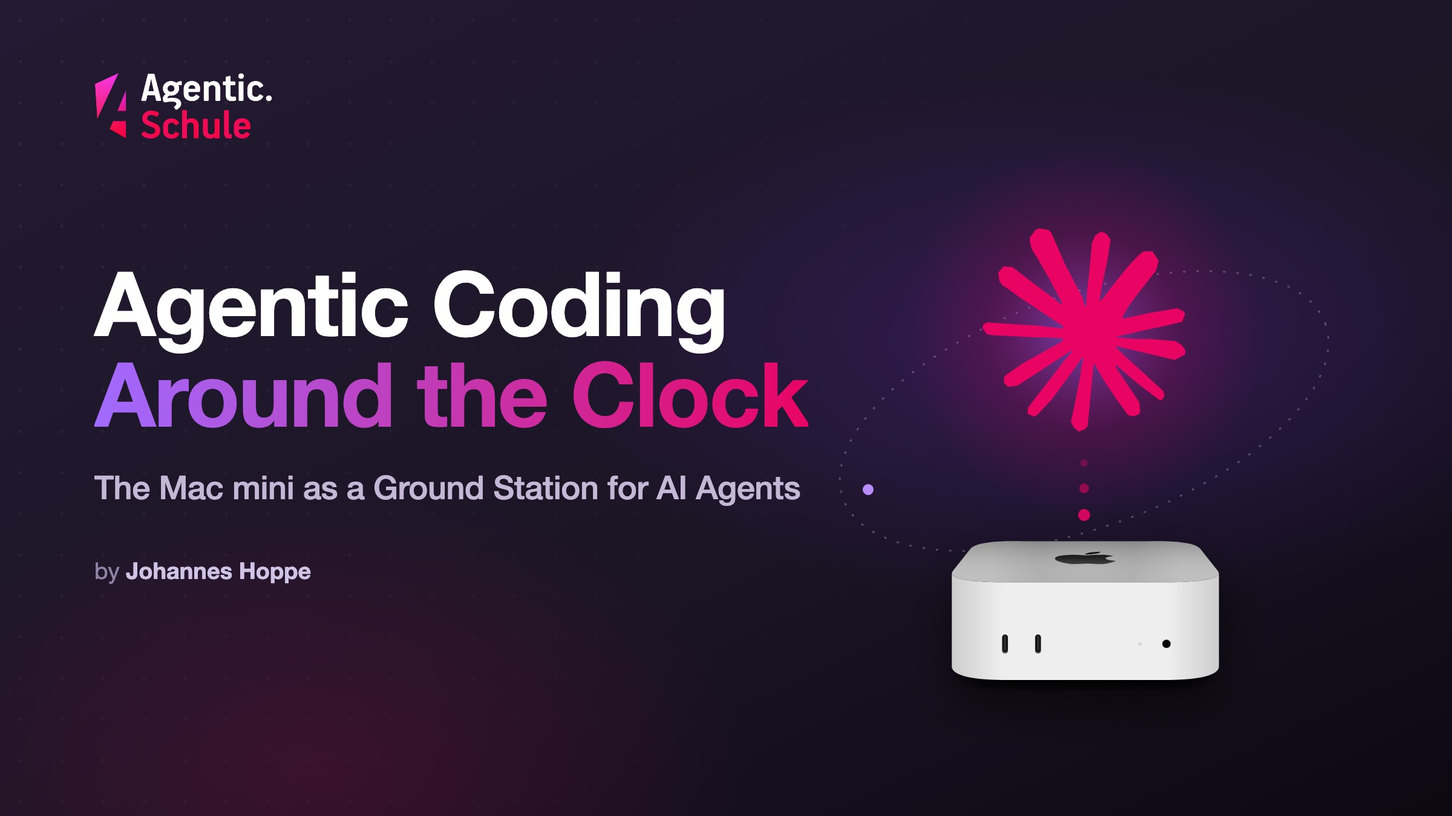
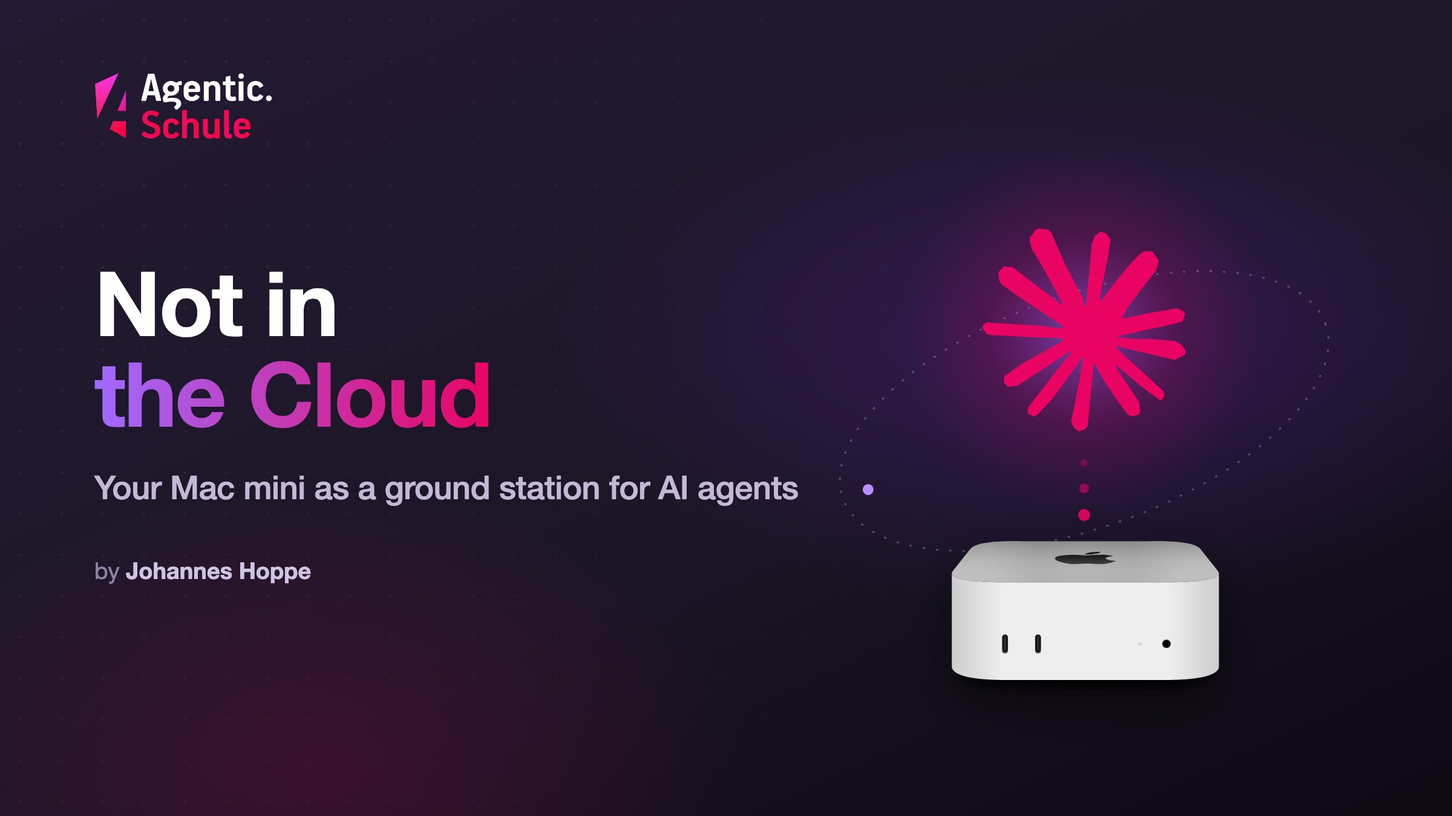
Mac-mini-Artikel: Umbau auf den Cloud-Souveränitäts-Spin (Tag-2-Video), DE+EN
Neue These/Titel „Deine AI-Agenten gehören NICHT in die Cloud": Die Chats sind
dein Kapital und gehören auf die eigene Platte.

- Neuer Abschnitt „Warum nicht einfach die Cloud?" nach „Das Problem": ChatGPT
  dots (eigener Cloud-Computer, Rollout Pro/Business Premium/Enterprise in
  eligible markets, GPT-6 Astra) und Claude-Cloud-Sessions (4 vCPUs/16 GB RAM,
  „use Remote Control on your own hardware", kein separater Compute-Charge,
  geteiltes Limit, Cloning via GitHub, Teleport). Preis gehedgt als Meinung;
  Geschäftsinteresse (neue Einnahmequelle) als Lesart. Codespaces/Devin/Jules
  hierher gezogen. Zeitgebundene Fakten „Stand Oktober 2026". Alle Fakten selbst
  an den Primärquellen verifiziert.
- Neuer Abschnitt „Deine Chats sind dein Kapital": ~/.claude/projects/, memory/,
  cleanupPeriodDays 365, „noch in einem Jahr nachschauen", Querverweis
  Account-Switch.
- Sandbox als eigener Abschnitt aufgewertet. „Laptop zuklappen" bleibt als
  zweites Argument. Fazit zugespitzt: „Deine Maschine, deine Schätze."
- Banner neu (h1 „Nicht in die Cloud"), lastModified 2026-10-02. EN strukturgleich.

Changed region(s): [[0.0625, 0.3111, 0.5625, 0.5289], [0.0625, 0.56, 0.5625, 0.6222]]

diff --git a/blog/2026-09-agentic-coding-mac-mini-DE/header.src.html b/blog/2026-09-agentic-coding-mac-mini-DE/header.src.html
@@ -44,8 +44,8 @@
   <img class="brand" src="logo-agentic-schule.png" alt="agentic.schule">
   <div class="wrap">
     <div class="left">
-      <h1>Agentic&nbsp;Coding<br><span class="accent">rund um die Uhr</span></h1>
-      <div class="sub">Der Mac mini als Bodenstation für AI-Agenten</div>
+      <h1>Nicht in<br><span class="accent">die Cloud</span></h1>
+      <div class="sub">Dein Mac mini als Bodenstation für AI-Agenten</div>
       <div class="by">von <b>Johannes Hoppe</b></div>
     </div>
   </div>

diff --git a/blog/2026-09-agentic-coding-mac-mini-EN/header.src.html b/blog/2026-09-agentic-coding-mac-mini-EN/header.src.html
@@ -44,8 +44,8 @@
   <img class="brand" src="logo-agentic-schule.png" alt="agentic.schule">
   <div class="wrap">
     <div class="left">
-      <h1>Agentic&nbsp;Coding<br><span class="accent">Around the Clock</span></h1>
-      <div class="sub">The Mac mini as a Ground Station for AI Agents</div>
+      <h1>Not in<br><span class="accent">the Cloud</span></h1>
+      <div class="sub">Your Mac mini as a ground station for AI agents</div>
       <div class="by">by <b>Johannes Hoppe</b></div>
     </div>
   </div>

diff --git a/blog/2026-09-agentic-coding-mac-mini-DE/README.md b/blog/2026-09-agentic-coding-mac-mini-DE/README.md
@@ -1,31 +1,34 @@
 ---
-title: 'Agentic Coding rund um die Uhr: Der Mac mini als Bodenstation'
+title: 'Deine AI-Agenten gehören NICHT in die Cloud: der Mac mini als Bodenstation'
 author: Johannes Hoppe
 mail: johannes.hoppe@haushoppe-its.de
 bio: '<a href="https://agentic.schule"><img src="/img/logo-agentic-schule.png" alt="agentic.schule Logo" style="float: right; margin-left: 30px; margin-top: -10px; margin-right: 30px; max-width: 220px;"></a>Johannes Hoppe ist Trainer und Berater für moderne Web-Entwicklung. In den Workshops von <a href="https://angular.schule" style="text-decoration: underline;"><b>angular.schule</b></a> und <a href="https://agentic.schule" style="text-decoration: underline;"><b>agentic.schule</b></a> geht es praxisnah um Angular – und zunehmend um agentische Entwicklung mit KI-Agenten wie Claude Code.'
 bioHeading: Über den Autor
 published: 2026-09-24
+lastModified: 2026-10-02
 keywords:
   - Agentic Coding
   - AI Agent
   - KI-Agent
   - Claude Code
   - Mac mini
+  - Cloud
+  - ChatGPT dots
+  - Datensouveränität
   - Always-on
   - tmux
   - mosh
   - Syncthing
   - colima
-  - nginx
   - Remote Development
   - Homelab
 language: de
 header: header.jpg
 ---
 
-Agentic Coding funktioniert anders als ein Chatfenster: Man gibt die Richtung vor, und der Agent liest Code, schreibt Dateien, führt Tests aus und plant selbstständig die nächsten Schritte. Solche Läufe dauern: Minuten, manchmal Stunden. Und genau da beißt sich das mit einem Laptop, den man zuklappt, ins Café trägt oder im Zug in den Ruhemodus schickt.
+ChatGPT hat jetzt Dots, Claude hat Cloud-Sessions: KI-Agenten, die in der Cloud laufen, während du dich um nichts kümmern musst. Bequem, keine Frage. Und trotzdem mag ich diese Angebote nicht.
 
-**Ich habe deshalb einen Mac mini zur „Bodenstation" umgebaut: eine immer laufende Maschine, auf der meine Agenten weiterarbeiten, während ich vom MacBook, aus dem Browser oder sogar vom Handy aus zusehe und eingreife.**
+**Die Gespräche mit deinem Agenten sind dein Kapital, und das gehört auf deine eigene Platte, nicht in eine fremde Cloud. Meine Antwort ist ein Mac mini als immer laufende „Bodenstation": eine Maschine, die dir gehört, eine dedizierte Sandbox, erreichbar von überall. Deine Agenten arbeiten weiter, während du vom MacBook, aus dem Browser oder sogar vom Handy aus zusiehst und eingreifst.**
 
 Die Kiste stand zunächst aus einem ganz anderen Grund im Regal: ein aktueller Mac mini M4 mit 32 GB, den ich mir eigentlich für den **Clawdbot**-Hype (heute *[OpenClaw](https://openclaw.ai)*) geholt hatte, den eigenen Agenten per **[Signal](https://signal.org)** vom Handy steuern, das hatte was. Cool war es genau so lange, wie diese Fernsteuerung der eigentliche Reiz war. Seit [Claude Code](https://claude.com/claude-code) das mit **`/remote-control`** von Haus aus kann, hat der Clawdbot für mich viel von seinem Charme verloren, und der mini langweilte sich ohnehin ein wenig (dazu vielleicht ein andermal mehr). Also bekam er eine neue, dauerhafte Aufgabe.
 
@@ -39,9 +42,9 @@ Dieser Artikel zeigt die Idee, die Bausteine und, in How-to-Kästen, wie man sie
 
 ## Das Problem: Agenten wollen laufen, ich will weg
 
-Ein typischer Ablauf beim Agentic Coding: Ich beschreibe ein Refactoring, der Agent legt los, arbeitet eine Aufgabenliste ab, lässt Tests laufen, korrigiert sich selbst. Das ist großartig, solange die Maschine an bleibt und die Session lebt.
+Agentic Coding funktioniert anders als ein Chatfenster: Man gibt die Richtung vor, und der Agent liest Code, schreibt Dateien, führt Tests aus und plant selbstständig die nächsten Schritte. Solche Läufe dauern: Minuten, manchmal Stunden. Und genau da beißt sich das mit einem Laptop, den man zuklappt, ins Café trägt oder im Zug in den Ruhemodus schickt.
 
-Auf dem Laptop passiert aber Folgendes:
+Auf dem Laptop passiert Folgendes:
 
 - Ich klappe ihn zu → der Prozess schläft ein, der Agent friert mitten im Lauf ein.
 - Ich will abends vom Sofa aus nur *kurz* nachsehen, wie weit er ist, und müsste den Laptop wieder hochfahren.
@@ -52,9 +55,31 @@ Dazu kommt ein Muster, das ich an mir selbst beobachte: Meine besten Ideen habe 
 
 Die Lösung ist konzeptionell simpel: **Der Agent läuft nicht auf dem Gerät in meiner Nähe, sondern auf einer dedizierten Maschine, die nie ausgeht und immer an ist.** Das Gerät in meiner Hand ist nur noch ein Fenster darauf.
 
-Das hat Claude Code (und andere Tools) im Prinzip schon gut gelöst: Remote Control per Handy. Aber mir reicht das nicht.
+## Warum nicht einfach die Cloud?
 
-Welches Gerät dieses Fenster ist, wird damit zur Nebensache: das große 16-Zoll-MacBook Pro am Schreibtisch, das kleine MacBook für die Herrenhandtasche (auf Konferenzen einen Riesen-Rechner herumschleppen ist uncool) oder das Handy. Ich will flexibel bleiben, und die Bodenstation bleibt dabei immer dieselbe.
+An dieser Stelle liegt der Einwand nahe: Genau dafür gibt es doch längst fertige Cloud-Angebote. Dein Agent läuft auf fremder Infrastruktur, immer an, und du musst nichts administrieren. Prinzipiell eine super Sache. Nur: Diese Angebote gefallen mir nicht, und das hat handfeste Gründe. Die folgenden Zahlen und Zitate sind Stand Oktober 2026.
+
+**ChatGPT Dots** (OpenAI schreibt sie klein). Jeder Dot ist laut OpenAI „frontier intelligence", „Powered by GPT‑6 Astra", und hat „their own cloud computer". OpenAI rollt sie „across Pro, Business Premium, and Enterprise plans in eligible markets" aus. Der Agent und seine Daten sitzen damit auf OpenAIs Rechnern, nicht auf meinen. Und meiner Einschätzung nach zahlt man für mehr als den ersten Dot zusätzlich drauf. (Ob Pro im EWR und in der Schweiz überhaupt dabei ist, war zum Start uneinheitlich; verlässlich stand das nicht auf OpenAIs eigener Seite, nur in Medienberichten.)
+
+**Claude-Code-Cloud-Sessions.** Die laufen in einer von Anthropic verwalteten VM mit, laut Doku, „approximate resource ceilings": „4 vCPUs" und „16 GB of RAM". Das ist mickrig. Und die Doku sagt selbst, was dann zu tun ist: „The VM may stop tasks that need significantly more memory … For workloads beyond these limits, use Remote Control to run Claude Code on your own hardware." Wer also ernsthaft Ressourcen braucht, wird von der Doku ohnehin auf eigene Hardware geschickt. Fair bleibt: „There is no separate compute charge for the cloud VM", und die Cloud-Sessions teilen sich das Nutzungslimit mit deiner übrigen Claude-Nutzung. Zum Klonen von Code braucht es GitHub. Und ja, man kann eine Cloud-Session per Teleport ins eigene Terminal holen, losgelaufen ist sie aber zuerst in der Cloud.
+
+Kommerziell gibt es dasselbe als gemietete Dev-Umgebung ([GitHub Codespaces](https://github.com/features/codespaces), [Coder](https://coder.com), [Google Cloud Workstations](https://cloud.google.com/workstations)) oder als gehosteten Agenten-Dienst ([Devin](https://devin.ai), [Google Jules](https://jules.google)), abgerechnet laufend pro Compute-Stunde oder Seat.
+
+Nüchtern betrachtet steckt dahinter auch ein handfestes Geschäftsinteresse. Die monatlichen Subscriptions lassen sich kaum weiter anheben, ohne dass die Kunden jede Preiserhöhung hassen. Ein zusätzlicher Cloud-Dienst, abgerechnet pro Nutzung oder pro Seat, ist aus Anbietersicht eine elegante neue Einnahmequelle. Das ist meine Lesart, aber sie erklärt den Drang in die Cloud ziemlich gut.
+
+So unterschiedlich diese Angebote sind, sie teilen den einen Haken, der mich am meisten stört: Deine Gespräche mit dem Agenten liegen dann irgendwo in einer fremden Cloud. Und genau die sind mir zu wertvoll dafür.
+
+## Deine Chats sind dein Kapital
+
+Die Frage, die mich am meisten beschäftigt: Wo liegen die Chats? Das Wissen, das ich mit dem Agenten angehäuft habe, die Entscheidungen, die Begründungen, die Sackgassen, das ist mein Kapital. Ich will es zwischen mehreren Maschinen synchronisieren, ich will es sichern können, und ich will noch in einem Jahr nachschauen können, was ich damals besprochen habe. Nichts davon geht gut, wenn es in einer fremden Cloud liegt.
+
+Claude Code legt seine Gesprächsprotokolle lokal unter `~/.claude/projects/` ab, eine `.jsonl`-Datei pro Session. Im selben Projektordner liegt außerdem der Unterordner `memory/`, in dem sich der Agent dauerhaft Notizen macht. Genau dieser Fundus soll mir erhalten bleiben, auf meiner eigenen, verschlüsselten Platte.
+
+> **⚠ Unbedingt anpassen: `cleanupPeriodDays`.** Claude Code räumt die Gesprächsprotokolle unter `~/.claude/projects/` standardmäßig nach 30 Tagen weg. Wer sie als Nachschlage-Fundus behalten will, setzt in `~/.claude/settings.json` den Wert `cleanupPeriodDays` deutlich höher, bei mir auf 365. Sonst löscht ein aufgeräumter Rechner die Historie.
+
+Auf der Bodenstation liegen diese Dateien auf meiner Platte und werden auf mein MacBook gespiegelt (wie genau, zeige ich im Abschnitt [Alles doppelt](#alles-doppelt-immer-synchron)). Damit kann ich eine Session, die ich auf dem mini begonnen habe, auf dem MacBook fortsetzen: Kontext, Verlauf, alles da.
+
+Für mich ist deshalb jedes reine Cloud-Angebot ein Showstopper. Diese Haltung zieht sich durch mein ganzes Setup; auch beim [Auto-Account-Switch](https://agentic.schule/blog/2026-09-agentic-coding-auto-account-switch) ging es mir genau darum, die Kontrolle über die eigenen Daten zu behalten.
 
 ## Die Architektur: Bodenstation und mobiler Spiegel
 
@@ -73,6 +98,12 @@ Streng genommen kommt eine dritte Rolle dazu: **Geräte, die nur als Terminal ar
 Der mini steht ohne Monitor und ohne Tastatur bei meiner übrigen Haustechnik, neben NAS, Fritzbox, dem dicken Switch und dem ganzen Kabelsalat, den man sonst so im Netz hängen hat. Erreichbar ist er nur übers Netzwerk. Das klingt nach Einschränkung, ist aber der halbe Trick: Was *headless* läuft (ohne Bildschirm und ohne sichtbare Fenster), läuft auch, wenn niemand eingeloggt ist.
 
 Warum ausgerechnet ein Mac mini? Für diese Rolle ist er fast perfekt: Apple Silicon liefert richtig viel Leistung fürs Geld, er ist **winzig** und passt in jede Ecke, läuft **absolut leise** (den Lüfter höre ich im Alltag nie) und ist so **stromsparend**, dass der Dauerbetrieb kaum auf der Rechnung auffällt. Im Leerlauf zieht er nur eine Handvoll Watt. Genau das, was man für eine Maschine will, die nie ausgeht.
+
+## Eine dedizierte Sandbox
+
+Neben den Chats ist das der zweite Grund für eine eigene Maschine. Der mini ist nicht mein Alltags-Laptop, auf dem ich alles Mögliche mache, sondern eine Maschine mit genau einem Zweck: dem Programmieren. Auf der Bodenstation läuft nur, was für die Arbeit nötig ist. Sonst bin ich dort nirgends eingeloggt, nicht einmal mein üblicher Passwort-Manager ist installiert.
+
+Damit ist der ganze Mac mini im Grunde eine **Sandbox**: Was ein Agent dort anrichten könnte, bleibt eng begrenzt. Für Agenten, die zunehmend selbstständig Befehle ausführen, ist das ein beruhigender Gedanke, und er kostet mich nichts extra, weil die Maschine ohnehin nur diese eine Aufgabe hat.
 
 ## Verbindungsabbrüche überstehen
 
@@ -125,15 +156,13 @@ Diesen direkten Terminal-Weg nutze ich aber selten. Meist arbeite ich auf dem Ha
 
 ## Alles doppelt: immer synchron
 
-Bis hierher könnte ich von überall auf den mini *zugreifen*. Der eigentliche Clou ist aber, dass mein großes MacBook Pro kein bloßes Terminal ist, sondern ein **echter Spiegel**: Es hat dieselben Dateien und kann jederzeit die Arbeit des mini übernehmen, auch offline. Warum mir das so wichtig ist? Bei einem kompletten Stromausfall will ich nicht mit heruntergelassenen Hosen dastehen, großer Mac und mini sind ja immer synchron. Ganz nebenbei wirkt dieser Spiegel wie ein permanentes, sekundenscharfes Backup. Geiler Scheiß, mit einem wichtigen Aber, zu dem ich unten komme.
+Bis hierher könnte ich von überall auf den mini *zugreifen*. Der eigentliche Clou ist aber, dass mein großes MacBook Pro kein bloßes Terminal ist, sondern ein **echter Spiegel**: Es hat dieselben Dateien und kann jederzeit die Arbeit des mini übernehmen, auch offline. Warum mir das so wichtig ist? Bei einem kompletten Stromausfall will ich nicht mit heruntergelassenen Hosen dastehen, großer Mac und mini sind ja immer synchron. Ganz nebenbei wirkt dieser Spiegel wie ein permanentes, sekundenscharfes Backup. Geiler Scheiss, mit einem wichtigen Aber, zu dem ich unten komme.
 
 Dafür sorgt **[Syncthing](https://syncthing.net)**, ein Peer-to-Peer-Sync ohne Cloud dazwischen. Es spiegelt bidirektional:
 
 - `~/Work`: alle Projekte und Repos
-- `~/.claude`: **und hier wird es spannend: die Agenten-Sessions selbst.** Claude Code legt seine Gesprächsprotokolle unter `~/.claude/projects/` ab. Werden die mitgesynct, kann ich eine Session, die ich auf dem mini begonnen habe, auf dem MacBook fortsetzen: Kontext, Verlauf, alles da.
+- `~/.claude`: die Agenten-Sessions und das `memory/`-Verzeichnis aus dem Abschnitt [Deine Chats sind dein Kapital](#deine-chats-sind-dein-kapital). Werden sie mitgesynct, kann ich eine Session vom mini auf dem MacBook fortsetzen: Kontext, Verlauf, alles da.
 - `~/Shots`: Screenshots (praktisch, gleich mehr dazu)
-
-> **⚠ Unbedingt anpassen: `cleanupPeriodDays`.** Claude Code räumt die Gesprächsprotokolle unter `~/.claude/projects/` standardmäßig nach 30 Tagen weg. Wer sie, wie hier, syncen und als Nachschlage-Fundus behalten will, setzt in `~/.claude/settings.json` den Wert `cleanupPeriodDays` deutlich höher, bei mir auf 365. Sonst löscht ein aufgeräumter Rechner die Historie, und der Sync trägt das Löschen brav auf den anderen.
 
 Gesynct wird **Quellcode, keine Artefakte.** `node_modules`, `dist`, `build`, `target` und Caches stehen in `.stignore` und werden pro Maschine neu gebaut (`npm ci`, `cargo build`). Kompilierte Binaries über Rechner zu kopieren bricht sowieso irgendwann am Library-Linking, lieber sauber neu bauen.
 
@@ -255,21 +284,19 @@ Ein Mac mini im Regal, ein bisschen Unix-Handwerk, und plötzlich hat man eine p
 
 Ein Nebeneffekt, den ich unterschätzt hatte: Ein **dedizierter Rechner ohne GUI und ohne sonstige Prozesse** hat spürbar mehr nutzbare Power. Auf meinem normalen Arbeitsrechner kratzte der Arbeitsspeicher bei gleicher RAM-Bestückung ständig am Limit. Swapping ohne Ende. Super nervig, wenn man überlegen muss, welchen Prozess man jetzt abschießt; den Agenten will man ja ganz sicher nicht unterbrechen. Auf dem mini ist dieses Problem einfach weg.
 
-Und die Sicherheit ist fast nebenbei gestiegen: Auf der Bodenstation läuft nur, was für die Arbeit nötig ist, sonst bin ich dort nirgends eingeloggt, nicht einmal mein üblicher Passwort-Manager ist installiert. Damit ist der ganze Mac mini im Grunde eine **Sandbox**: Was ein Agent dort anrichten könnte, bleibt eng begrenzt.
-
 Die Grenzen des Setups:
 
 - **Es braucht Pflege.** Headless-Betrieb, FileVault-Remote-Unlock, Autostart-Dienste, das ist einmal Einrichtungsaufwand und gelegentlich Debugging.
 - **Sicherheit ist Pflicht, kein Bonus.** Zugriff ausschließlich übers VPN, Key-Auth, FileVault an. Ein always-on Rechner ist nur so vertrauenswürdig wie sein Zugang.
 - **Reboots kosten laufende Prozesse.** tmux rettet das Layout, nicht den Zustand mitten im Lauf. Für lange Läufe plane ich Neustarts entsprechend.
 
-Und wie machen es eigentlich alle anderen? Meist gar nicht so, sie lassen ihren Agenten (**Claude Code**, [Cursor](https://cursor.com), [GitHub Copilot](https://github.com/features/copilot), [Antigravity](https://antigravity.google)) einfach lokal auf dem Laptop laufen. Kein Keller, kein Server. Für die meisten ist das genau richtig.
+Und wie machen es eigentlich alle anderen? Die meisten lassen ihren Agenten (**Claude Code**, [Cursor](https://cursor.com), [GitHub Copilot](https://github.com/features/copilot), [Antigravity](https://antigravity.google)) einfach lokal auf dem Laptop laufen. Kein Keller, kein Server. Für die meisten ist das genau richtig. Wer den Schritt in die Cloud geht, gibt dafür die Kontrolle über seine Daten und seine Chats aus der Hand, und genau das will ich nicht.
 
-Mein Setup zielt auf den Sonderfall: **immer an, von überall**. Kommerziell bekommt man das als gemietete Cloud-Dev-Umgebung ([GitHub Codespaces](https://github.com/features/codespaces), [Coder](https://coder.com), [Google Cloud Workstations](https://cloud.google.com/workstations)) oder als gehosteten Agenten-Dienst ([Devin](https://devin.ai), [Google Jules](https://jules.google)), abgerechnet laufend pro Compute-Stunde oder Seat. Bei mir sind es allein die **Max-Subscription von Claude** und Hardware, die ich ohnehin hatte. Und weil der Agent jederzeit erreichbar ist, reize ich deren großzügige Limits inzwischen wirklich gnadenlos aus, das gelingt kaum so gut, wenn man an einen physischen Ort gebunden ist.
+Mein Setup zielt auf den Sonderfall: **immer an, von überall, und trotzdem komplett bei mir.** Bei mir sind es allein die **Max-Subscription von Claude** und Hardware, die ich ohnehin hatte. Und weil der Agent jederzeit erreichbar ist, reize ich deren großzügige Limits inzwischen wirklich gnadenlos aus, das gelingt kaum so gut, wenn man an einen physischen Ort gebunden ist.
 
-Für mich überwiegt der Gewinn deutlich: Agenten, die weiterarbeiten, während ich lebe, mich bewege, das Gerät wechsle. Die Bodenstation steht, die Rakete dockt an und ab. *Ground Control to Major Tom*, und der Bodenkontakt reißt nie ab.
+Für mich überwiegt der Gewinn deutlich: Agenten, die weiterarbeiten, während ich lebe und mich bewege, die Chats auf meiner eigenen Platte, eine Maschine, die mir gehört. **Deine Maschine, deine Schätze. Du hast die Kontrolle und nicht die Cloud.**
 
-Übrigens: Beim Schreiben dieses Artikels hatte ich den Song permanent im Ohr. Bitte sehr, hier ist dein neuer Ohrwurm:
+Übrigens: Beim Schreiben dieses Artikels hatte ich den Song permanent im Ohr. Bitte sehr, hier ist dein neuer Ohrwurm, *Ground Control to Major Tom*:
 
 <iframe src="https://www.youtube.com/embed/iYYRH4apXDo" title="David Bowie – Space Oddity (Official Video)" style="width: 100%; aspect-ratio: 16 / 9; border: 0; border-radius: 8px;" allowfullscreen loading="lazy"></iframe>
 

diff --git a/blog/2026-09-agentic-coding-mac-mini-EN/README.md b/blog/2026-09-agentic-coding-mac-mini-EN/README.md
@@ -1,30 +1,33 @@
 ---
-title: 'Agentic Coding Around the Clock: The Mac mini as a Ground Station'
+title: 'Your AI Agents Do NOT Belong in the Cloud: the Mac mini as a Ground Station'
 author: Johannes Hoppe
 mail: johannes.hoppe@haushoppe-its.de
 bio: '<a href="https://agentic.schule"><img src="/img/logo-agentic-schule.png" alt="agentic.schule logo" style="float: right; margin-left: 30px; margin-top: -10px; margin-right: 30px; max-width: 220px;"></a>Johannes Hoppe is a trainer and consultant for modern web development. The workshops at <a href="https://angular.schule" style="text-decoration: underline;"><b>angular.schule</b></a> and <a href="https://agentic.schule" style="text-decoration: underline;"><b>agentic.schule</b></a> focus on Angular in practice – and increasingly on agentic development with AI agents like Claude Code.'
 bioHeading: About the author
 published: 2026-09-24
+lastModified: 2026-10-02
 keywords:
   - Agentic Coding
   - AI Agent
   - Claude Code
   - Mac mini
+  - Cloud
+  - ChatGPT dots
+  - Data sovereignty
   - Always-on
   - tmux
   - mosh
   - Syncthing
   - colima
-  - nginx
   - Remote Development
   - Homelab
 language: en
 header: header.jpg
 ---
 
-Agentic Coding works differently from a chat window: you set the direction, and the agent reads code, writes files, runs tests, and plans the next steps on its own. Such runs take time: minutes, sometimes hours. And that's exactly where things clash with a laptop that you fold shut, carry into a café, or send to sleep on the train.
+ChatGPT now has dots, Claude has cloud sessions: AI agents that run in the cloud while you don't have to worry about a thing. Convenient, no question. And yet I don't like these offerings.
 
-**That's why I turned a Mac mini into a "ground station": an always-running machine on which my agents keep working, while I watch and step in from the MacBook, the browser, or even my phone.**
+**The conversations with your agent are your capital, and they belong on your own disk, not in someone else's cloud. My answer is a Mac mini as an always-running "ground station": a machine that belongs to you, a dedicated sandbox, reachable from anywhere. Your agents keep working while you watch and step in from the MacBook, the browser, or even your phone.**
 
 The box was initially sitting on the shelf for a completely different reason: a current Mac mini M4 with 32 GB that I had actually bought to join the **Clawdbot** hype (today *[OpenClaw](https://openclaw.ai)*), controlling your own agent from your phone via **[Signal](https://signal.org)**, that had something to it. It was cool exactly as long as that remote control was the main appeal. Since [Claude Code](https://claude.com/claude-code) can do the same out of the box with **`/remote-control`**, the Clawdbot has lost much of its charm for me, and the mini was getting a bit bored anyway (maybe more on that another time). So it got a new, permanent job.
 
@@ -38,9 +41,9 @@ This article shows the idea, the building blocks, and, in how-to boxes, how to b
 
 ## The Problem: Agents Want to Run, I Want to Leave
 
-A typical flow in agentic coding: I describe a refactoring, the agent gets going, works through a task list, runs tests, corrects itself. That's great, as long as the machine stays on and the session lives.
+Agentic coding works differently from a chat window: you set the direction, and the agent reads code, writes files, runs tests, and plans the next steps on its own. Such runs take time: minutes, sometimes hours. And that's exactly where things clash with a laptop that you fold shut, carry into a café, or send to sleep on the train.
 
-On the laptop, though, this is what happens:
+On the laptop, this is what happens:
 
 - I fold it shut → the process goes to sleep, the agent freezes mid-run.
 - In the evening I just want to *quickly* check from the couch how far it's gotten, and would have to boot the laptop back up.
@@ -51,9 +54,31 @@ On top of that, there's a pattern I notice in myself: my best ideas rarely come 
 
 The solution is conceptually simple: **The agent doesn't run on the device near me, but on a dedicated machine that never goes off and is always on.** The device in my hand is just a window onto it.
 
-Claude Code (and other tools) have basically already solved this: remote control from the phone. But that's not enough for me.
+## Why Not Just the Cloud?
 
-Which device that window is becomes a side note: the big 16-inch MacBook Pro at the desk, the small MacBook for the man-purse (lugging a giant machine around at conferences is uncool), or the phone. I want to stay flexible, and the ground station always stays the same.
+At this point the obvious objection is: there are ready-made cloud offerings for exactly this. Your agent runs on someone else's infrastructure, always on, and you administer nothing. In principle a great thing. Only: these offerings don't appeal to me, and that has solid reasons. The figures and quotes below are as of October 2026.
+
+**ChatGPT dots** (OpenAI writes them lowercase). Each dot is, per OpenAI, "frontier intelligence", "Powered by GPT‑6 Astra", and has "their own cloud computer". OpenAI is rolling them out "across Pro, Business Premium, and Enterprise plans in eligible markets". So the agent and its data sit on OpenAI's machines, not mine. And in my estimation you pay extra for more than the first dot. (Whether Pro is even included in the EEA and Switzerland was inconsistent at launch; reliably that was not on OpenAI's own page, only in media reports.)
+
+**Claude Code cloud sessions.** These run in a VM managed by Anthropic with, per the docs, "approximate resource ceilings": "4 vCPUs" and "16 GB of RAM". That's puny. And the docs themselves say what to do then: "The VM may stop tasks that need significantly more memory … For workloads beyond these limits, use Remote Control to run Claude Code on your own hardware." So if you seriously need resources, the docs send you to your own hardware anyway. To be fair: "There is no separate compute charge for the cloud VM", and the cloud sessions share the usage limit with the rest of your Claude usage. Cloning code requires GitHub. And yes, you can pull a cloud session into your own terminal via teleport, but it started off in the cloud first.
+
+Commercially you get the same as a rented dev environment ([GitHub Codespaces](https://github.com/features/codespaces), [Coder](https://coder.com), [Google Cloud Workstations](https://cloud.google.com/workstations)) or a hosted agent service ([Devin](https://devin.ai), [Google Jules](https://jules.google)), billed continuously per compute-hour or seat.
+
+Soberly speaking, there's also a solid business interest behind this. The monthly subscriptions can hardly be raised further without customers hating every price increase. An additional cloud service, billed per usage or per seat, is from the provider's point of view an elegant new revenue stream. That's my reading, but it explains the push into the cloud rather well.
+
+As different as these offerings are, they share the one catch that bothers me most: your conversations with the agent then live somewhere in someone else's cloud. And those are too valuable to me for that.
+
+## Your Chats Are Your Capital
+
+The question that occupies me most: where do the chats live? The knowledge I've built up with the agent, the decisions, the reasoning, the dead ends, that's my capital. I want to sync it across several machines, I want to be able to back it up, and I want to still look up in a year what I discussed back then. None of that works well when it lives in someone else's cloud.
+
+Claude Code stores its conversation logs locally under `~/.claude/projects/`, one `.jsonl` file per session. In the same project folder there's also the subfolder `memory/`, where the agent keeps persistent notes. Exactly this trove is what I want to preserve, on my own, encrypted disk.
+
+> **⚠ Definitely adjust `cleanupPeriodDays`.** By default Claude Code clears the conversation logs under `~/.claude/projects/` after 30 days. If you want to keep them as a reference, set `cleanupPeriodDays` in `~/.claude/settings.json` much higher, in my case to 365. Otherwise a tidied-up machine deletes the history.
+
+On the ground station these files live on my disk and get mirrored to my MacBook (how exactly, I show in the [Everything Duplicated](#everything-duplicated-always-in-sync) section). That lets me continue a session I started on the mini over on the MacBook: context, history, everything there.
+
+That's why, for me, any pure cloud offering is a showstopper. This stance runs through my whole setup; with the [auto account switch](https://agentic.schule/en/blog/2026-09-agentic-coding-auto-account-switch), too, it was exactly about keeping control over my own data.
 
 ## The Architecture: Ground Station and Mobile Mirror
 
@@ -72,6 +97,12 @@ Strictly speaking, a third role joins in: **devices that only work as a terminal
 The mini sits without a monitor and without a keyboard among the rest of my home tech, next to the NAS, the router, the fat switch, and all the cabling you tend to have hanging on your network. It's reachable only over the network. That sounds like a limitation, but it's half the trick: what runs *headless* (without a screen and without visible windows) also runs when nobody is logged in.
 
 Why a Mac mini of all things? For this role it's almost perfect: Apple Silicon delivers a lot of performance for the money, the box is **tiny** and fits in any corner, runs **absolutely silently** (I never hear the fan in everyday use), and sips so little **power** that running it 24/7 barely shows up on the bill. At idle it draws just a handful of watts. Exactly what you want from a machine that never turns off.
+
+## A Dedicated Sandbox
+
+Besides the chats, this is the second reason for a machine of my own. The mini isn't my everyday laptop, where I do all sorts of things, but a machine with exactly one job: coding. On the ground station, only what's needed for the work runs. I'm not logged in anywhere else there, not even my usual password manager is installed.
+
+That makes the whole Mac mini essentially a **sandbox**: whatever an agent could mess up there stays tightly contained. For agents that increasingly run commands on their own, that's a reassuring thought, and it costs me nothing extra, because the machine only has this one job anyway.
 
 ## Surviving Connection Drops
 
@@ -129,10 +160,8 @@ Up to here I could *access* the mini from anywhere. But the real kicker is that 
 This is handled by **[Syncthing](https://syncthing.net)**, a peer-to-peer sync with no cloud in between. It mirrors bidirectionally:
 
 - `~/Work`: all projects and repos
-- `~/.claude`: **and here it gets interesting: the agent sessions themselves.** Claude Code stores its conversation logs under `~/.claude/projects/`. If those are synced along, I can continue a session I started on the mini over on the MacBook: context, history, everything there.
+- `~/.claude`: the agent sessions and the `memory/` directory from the [Your Chats Are Your Capital](#your-chats-are-your-capital) section. Synced along, I can continue a session from the mini over on the MacBook: context, history, everything there.
 - `~/Shots`: screenshots (handy, more on that in a moment)
-
-> **⚠ Definitely adjust `cleanupPeriodDays`.** By default Claude Code clears the conversation logs under `~/.claude/projects/` after 30 days. If you want to sync them, as here, and keep them as a reference, set `cleanupPeriodDays` in `~/.claude/settings.json` much higher, in my case to 365. Otherwise a tidied-up machine deletes the history, and the sync dutifully carries that deletion over to the other one.
 
 What gets synced is **source code, not artifacts.** `node_modules`, `dist`, `build`, `target`, and caches are in `.stignore` and get rebuilt per machine (`npm ci`, `cargo build`). Copying compiled binaries across machines breaks at library linking sooner or later anyway, better to rebuild cleanly.
 
@@ -254,21 +283,19 @@ A Mac mini on a shelf, a bit of Unix craftsmanship, and suddenly you have a pers
 
 A side effect I had underestimated: a **dedicated machine with no GUI and no other processes** has noticeably more usable power. On my normal work machine, with the same amount of RAM, memory was constantly scraping the limit. Endless swapping. Super annoying when you have to think about which process to kill now; you definitely don't want to interrupt the agent. On the mini that problem is simply gone.
 
-And security went up almost as a side effect: on the ground station, only what's needed for work runs, I'm not logged in anywhere else there, not even my usual password manager is installed. That makes the whole Mac mini essentially a **sandbox**: whatever an agent could mess up there stays tightly contained.
-
 The limits of this setup:
 
 - **It needs maintenance.** Headless operation, FileVault remote unlock, autostart services, that's a one-time setup effort and occasional debugging.
 - **Security is a must, not a bonus.** Access exclusively via the VPN, key auth, FileVault on. An always-on machine is only as trustworthy as its access.
 - **Reboots cost running processes.** tmux saves the layout, not the state mid-run. For long runs I plan restarts accordingly.
 
-And how does everyone else actually do it? Mostly not like this at all, they just run their agent (**Claude Code**, [Cursor](https://cursor.com), [GitHub Copilot](https://github.com/features/copilot), [Antigravity](https://antigravity.google)) locally on the laptop. No basement, no server. For most people that's exactly right.
+And how does everyone else actually do it? Most just run their agent (**Claude Code**, [Cursor](https://cursor.com), [GitHub Copilot](https://github.com/features/copilot), [Antigravity](https://antigravity.google)) locally on the laptop. No basement, no server. For most people that's exactly right. Anyone who takes the step into the cloud gives up control over their data and their chats for it, and that's exactly what I don't want.
 
-My setup targets the special case: **always on, from anywhere**. Commercially you buy that as a rented cloud dev environment ([GitHub Codespaces](https://github.com/features/codespaces), [Coder](https://coder.com), [Google Cloud Workstations](https://cloud.google.com/workstations)) or a hosted agent service ([Devin](https://devin.ai), [Google Jules](https://jules.google)), billed continuously per compute-hour or seat. For me it's just the **Max subscription for Claude** plus hardware I already had. And because the agent is reachable at any time, I've been ruthlessly maxing out its generous limits, which hardly works as well when you're tied to a physical location.
+My setup targets the special case: **always on, from anywhere, and still completely mine.** For me it's just the **Max subscription for Claude** plus hardware I already had. And because the agent is reachable at any time, I've been ruthlessly maxing out its generous limits, which hardly works as well when you're tied to a physical location.
 
-For me the gain clearly outweighs it: agents that keep working while I live, move around, switch devices. The ground station stands, the rocket docks and lifts off. *Ground Control to Major Tom*, and the ground contact never drops.
+For me the gain clearly outweighs it: agents that keep working while I live and move around, the chats on my own disk, a machine that belongs to me. **Your machine, your treasures. You're in control, not the cloud.**
 
-By the way: while writing this article, I had the song stuck in my head the whole time. Here you go, your new earworm:
+By the way: while writing this article, I had the song stuck in my head the whole time. Here you go, your new earworm, *Ground Control to Major Tom*:
 
 <iframe src="https://www.youtube.com/embed/iYYRH4apXDo" title="David Bowie – Space Oddity (Official Video)" style="width: 100%; aspect-ratio: 16 / 9; border: 0; border-radius: 8px;" allowfullscreen loading="lazy"></iframe>
 
